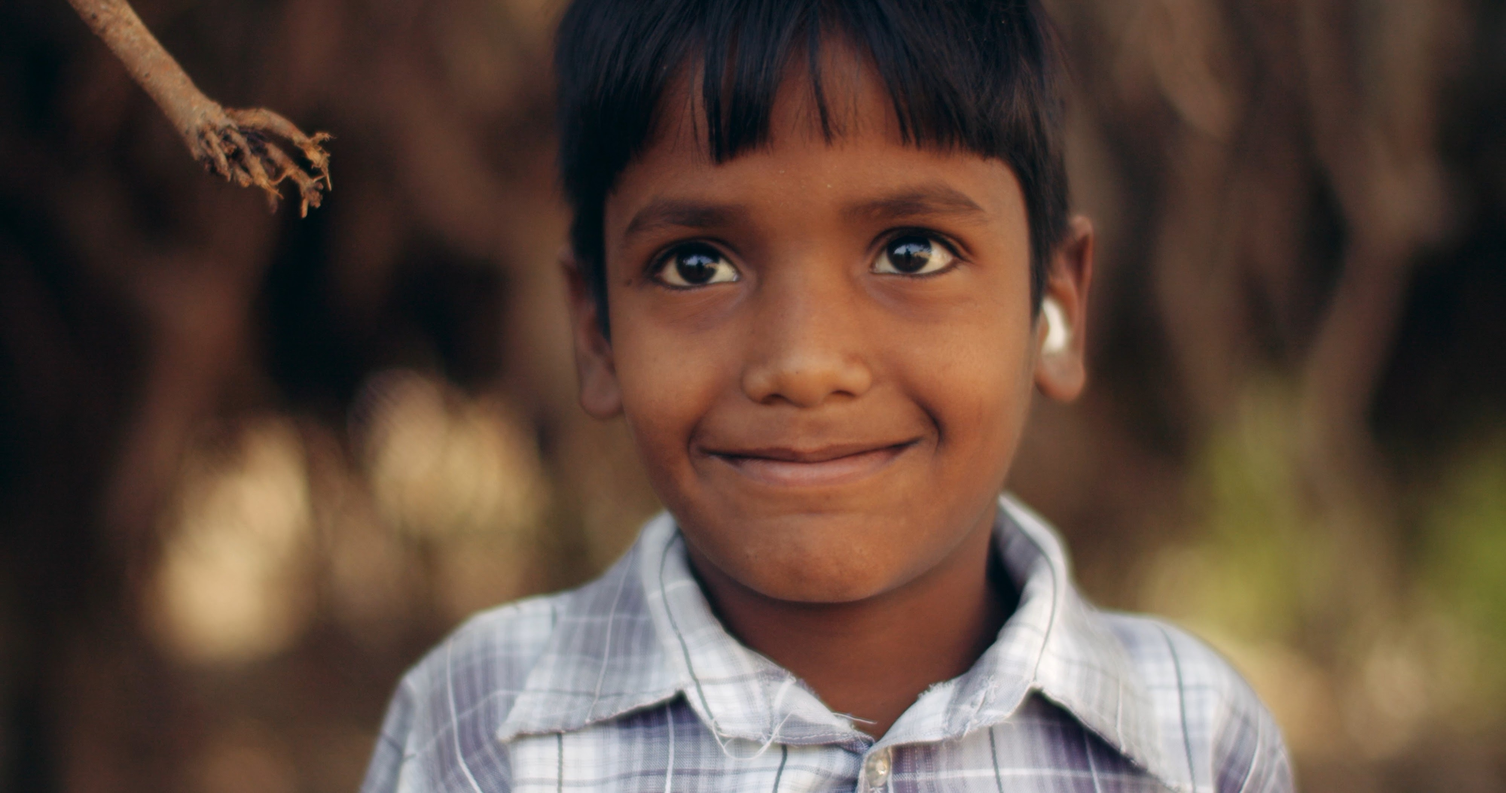
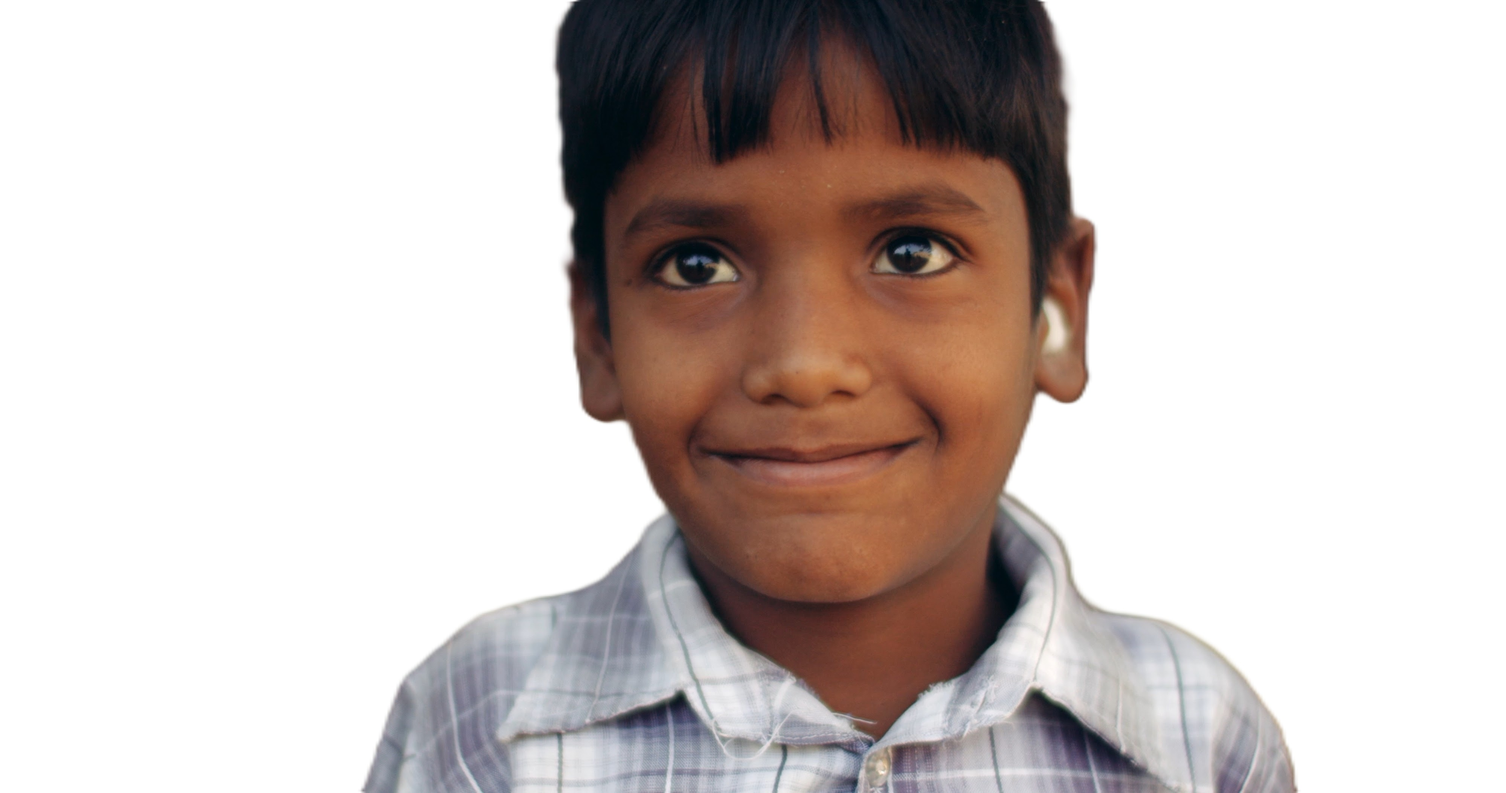
image changed

diff --git a/index.html b/index.html
@@ -682,8 +682,8 @@
 							<!-- Content Column -->
 							<div class="content-column col-lg-8 col-md-12 col-sm-12">
 								<div class="inner-column">
-									<div class="title">Empower Through Education</div>
-									<h1>Unlocking Potential, One Child at a Time.</h1>
+									<div class="title">Welcome to </div>
+									<h1>Noesiser Foundation Trust</h1>
 									<div class="text">Get Involved | Become a Member</div>
 									<div class="button-box">
 										<a class="btn-style-two theme-btn" href="about.html"><span
@@ -701,7 +701,7 @@
 									<div class="shape-five"
 										style="background-image:url(assets/images/main-slider/shape-5.png)"></div>
 									<div class="image">
-										<img src="assets/images/main-slider/content-image-1.png" alt="">
+										<img src="assets/images/pic_2.png" alt="">
 									</div>
 								</div>
 							</div>
@@ -814,10 +814,10 @@
 							<div class="shape-four"
 								style="background-image:url(assets/images/background/pattern-3.png)"></div>
 							<div class="image">
-								<img src="assets/images/resource/about-1.jpg" alt="">
+								<img src="assets/images/pic_3.png" alt="">
 							</div>
 							<div class="image-two">
-								<img src="assets/images/resource/about-2.jpg" alt="">
+								<img src="#" alt="">
 							</div>
 						</div>
 					</div>
@@ -939,7 +939,7 @@
 					<div class="image-column col-lg-6 col-md-12 col-sm-12">
 						<div class="inner-column wow fadeInLeft" data-wow-delay="300ms" data-wow-duration="1500ms">
 							<div class="image parallax-scene-5">
-								<img data-depth="0.30" src="assets/images/resource/story.png" alt="">
+								<img data-depth="0.30" src="assets/images/index_1.jpg" alt="">
 							</div>
 						</div>
 					</div>
